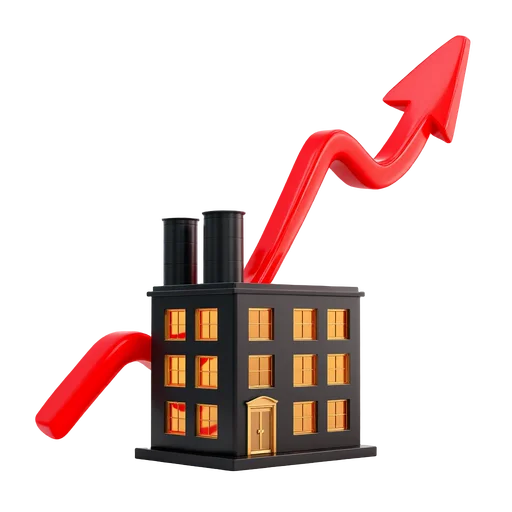
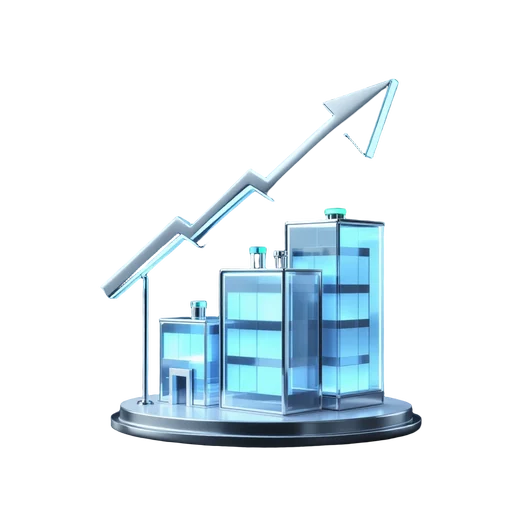
UI: иллюстрации продуктов в манере корпоративного alfabank.ru — хром и полупрозрачное стекло без красного (fal.ai FLUX 1.1 pro + Kontext, фон вырезан BiRefNet), крупнее в карточках; читаются на тёмных карточках

diff --git a/static/style.css b/static/style.css
@@ -540,7 +540,7 @@ a.tile.violet b { color: var(--violet); } .tile.violet { background: var(--viole
 :root[data-theme="dark"] { --violet-soft: #241c4a; --violet-ink: #b9a9ff; }
 
 /* иллюстрации продуктов (fal.ai, FLUX 1.1 pro — собственные генерации команды) */
-.pimg { width: 132px; height: 132px; object-fit: contain; display: block; margin: -6px auto 6px; filter: drop-shadow(0 14px 18px rgba(0,0,0,.16)); transition: transform 0.675s var(--ease); }
+.pimg { width: 152px; height: 152px; object-fit: contain; display: block; margin: -6px auto 6px; filter: drop-shadow(0 14px 18px rgba(0,0,0,.16)); transition: transform 0.675s var(--ease); }
 .card.flat:hover .pimg { transform: translateY(-4px) scale(1.04); }
 .prod { position: relative; padding-right: 70px !important; } .prod .pimg.sm { position: absolute; right: 10px; top: 12px; width: 56px; height: 56px; margin: 0; filter: drop-shadow(0 8px 10px rgba(0,0,0,.18)); } .prod.sel .pimg.sm { transform: scale(1.08); }
 .fcard .fico.img { background: transparent; width: 56px; height: 56px; object-fit: contain; filter: drop-shadow(0 8px 10px rgba(0,0,0,.18)); }
